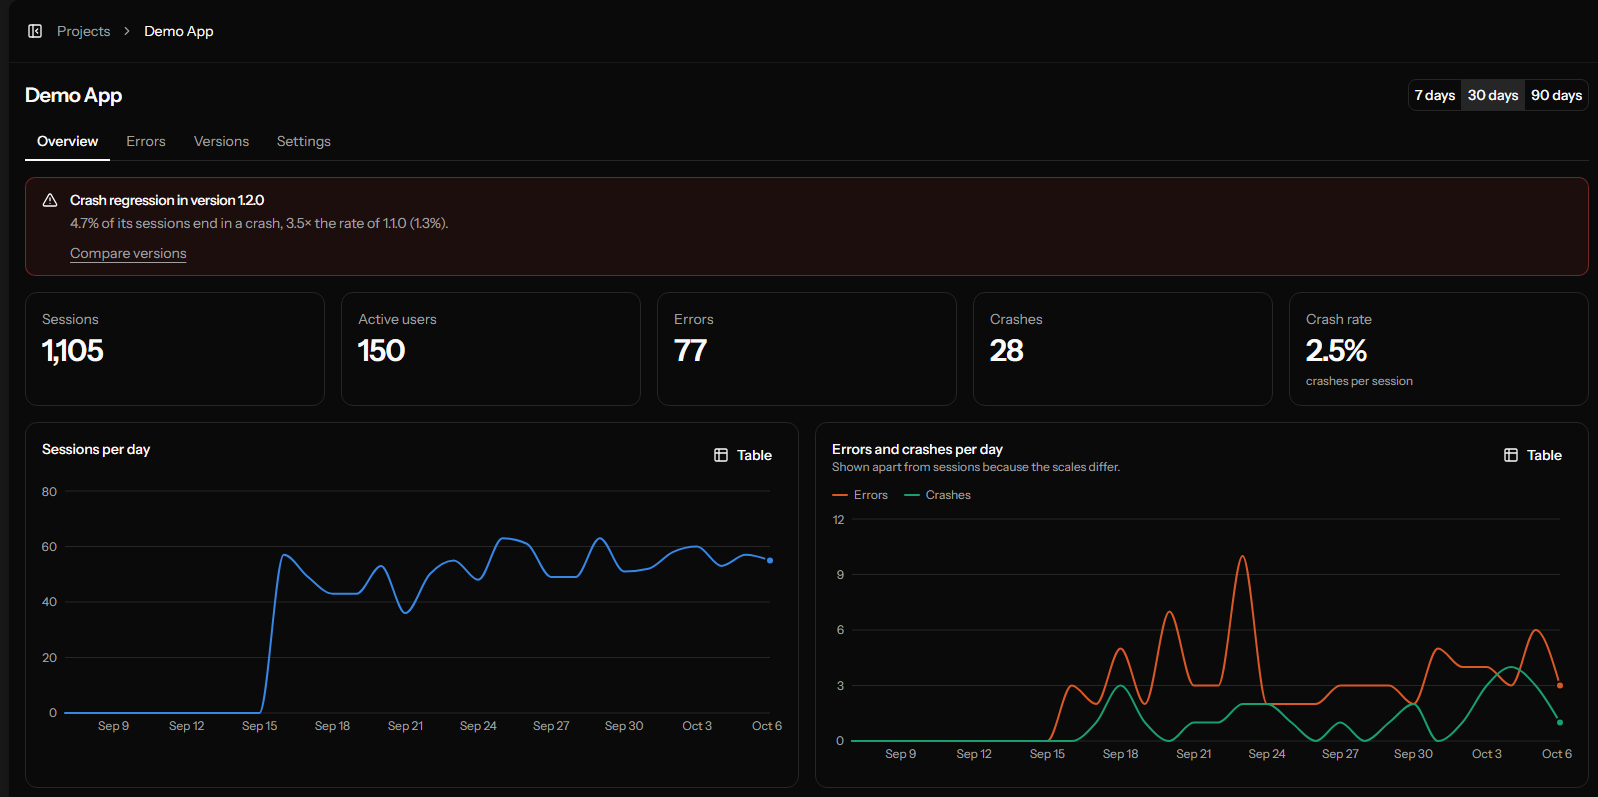
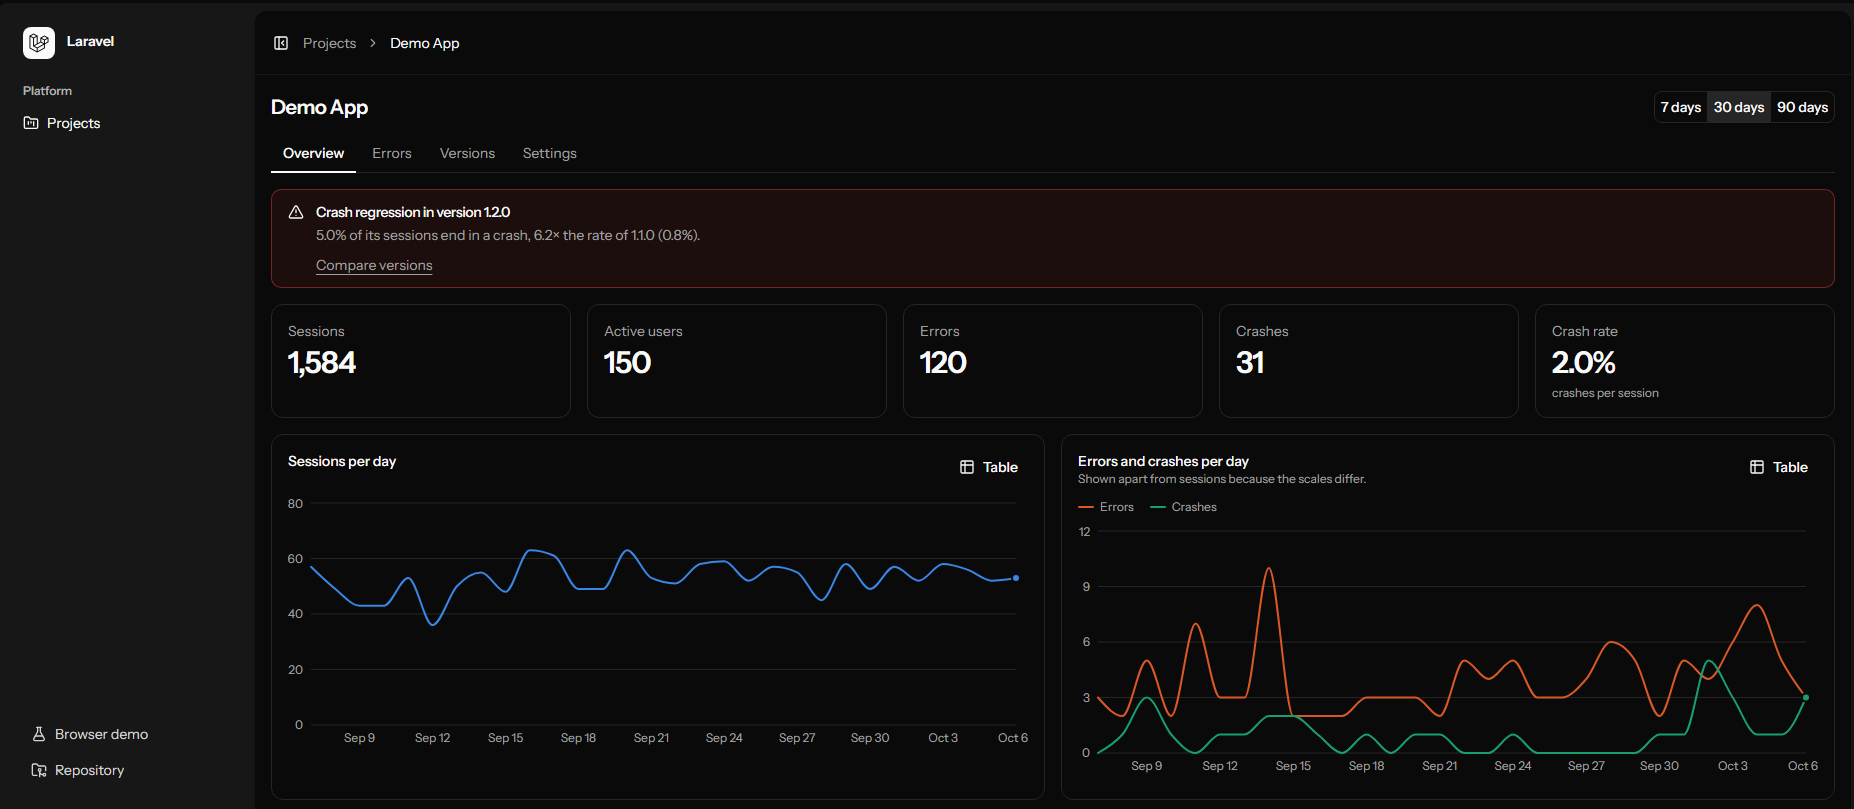
docs: refresh screenshots and show the errors and versions pages

diff --git a/README.pt-BR.md b/README.pt-BR.md
@@ -24,6 +24,8 @@ Um monitor de desempenho de aplicações pequeno e de código aberto. Seus apps 
 
 ![Funcionalidades mais usadas e as máquinas que rodam o app](docs/screenshots/machines.png)
 
+![Erros iguais agrupados pela mensagem, com quantas vezes cada um aconteceu](docs/screenshots/errors.png)
+
 ## Começando
 
 Você precisa de PHP 8.4, Composer e Node 22. O [Laravel Herd](https://herd.laravel.com) instala os dois primeiros no Windows e no macOS.
@@ -108,6 +110,8 @@ apm.flush
 `ruby clients/ruby/demo_app.rb --key apm_... --url http://localhost:8000` roda no terminal um app desktop de mentira que abre sessões, usa funcionalidades e às vezes falha.
 
 ## Como o alerta de regressão funciona
+
+![A página de versões: taxa de crash por versão, adoção ao longo do tempo e a versão sinalizada](docs/screenshots/versions.png)
 
 A taxa de crash é `crashes ÷ sessões` de uma versão. Uma versão é sinalizada quando:
 

diff --git a/README.md b/README.md
@@ -24,6 +24,8 @@ A small, open source application performance monitor. Your apps send usage, erro
 
 ![Most used features and the machines running the app](docs/screenshots/machines.png)
 
+![Equal errors grouped by message, with how often each happened](docs/screenshots/errors.png)
+
 ## Quick start
 
 You need PHP 8.4, Composer and Node 22. [Laravel Herd](https://herd.laravel.com) installs the first two on Windows and macOS.
@@ -108,6 +110,8 @@ apm.flush
 `ruby clients/ruby/demo_app.rb --key apm_... --url http://localhost:8000` runs a fake desktop app in the terminal that opens sessions, uses features and sometimes fails.
 
 ## How the regression alert works
+
+![The versions page: crash rate per version, adoption over time and the flagged version](docs/screenshots/versions.png)
 
 Crash rate is `crashes ÷ sessions` of a version. A version is flagged when:
 
